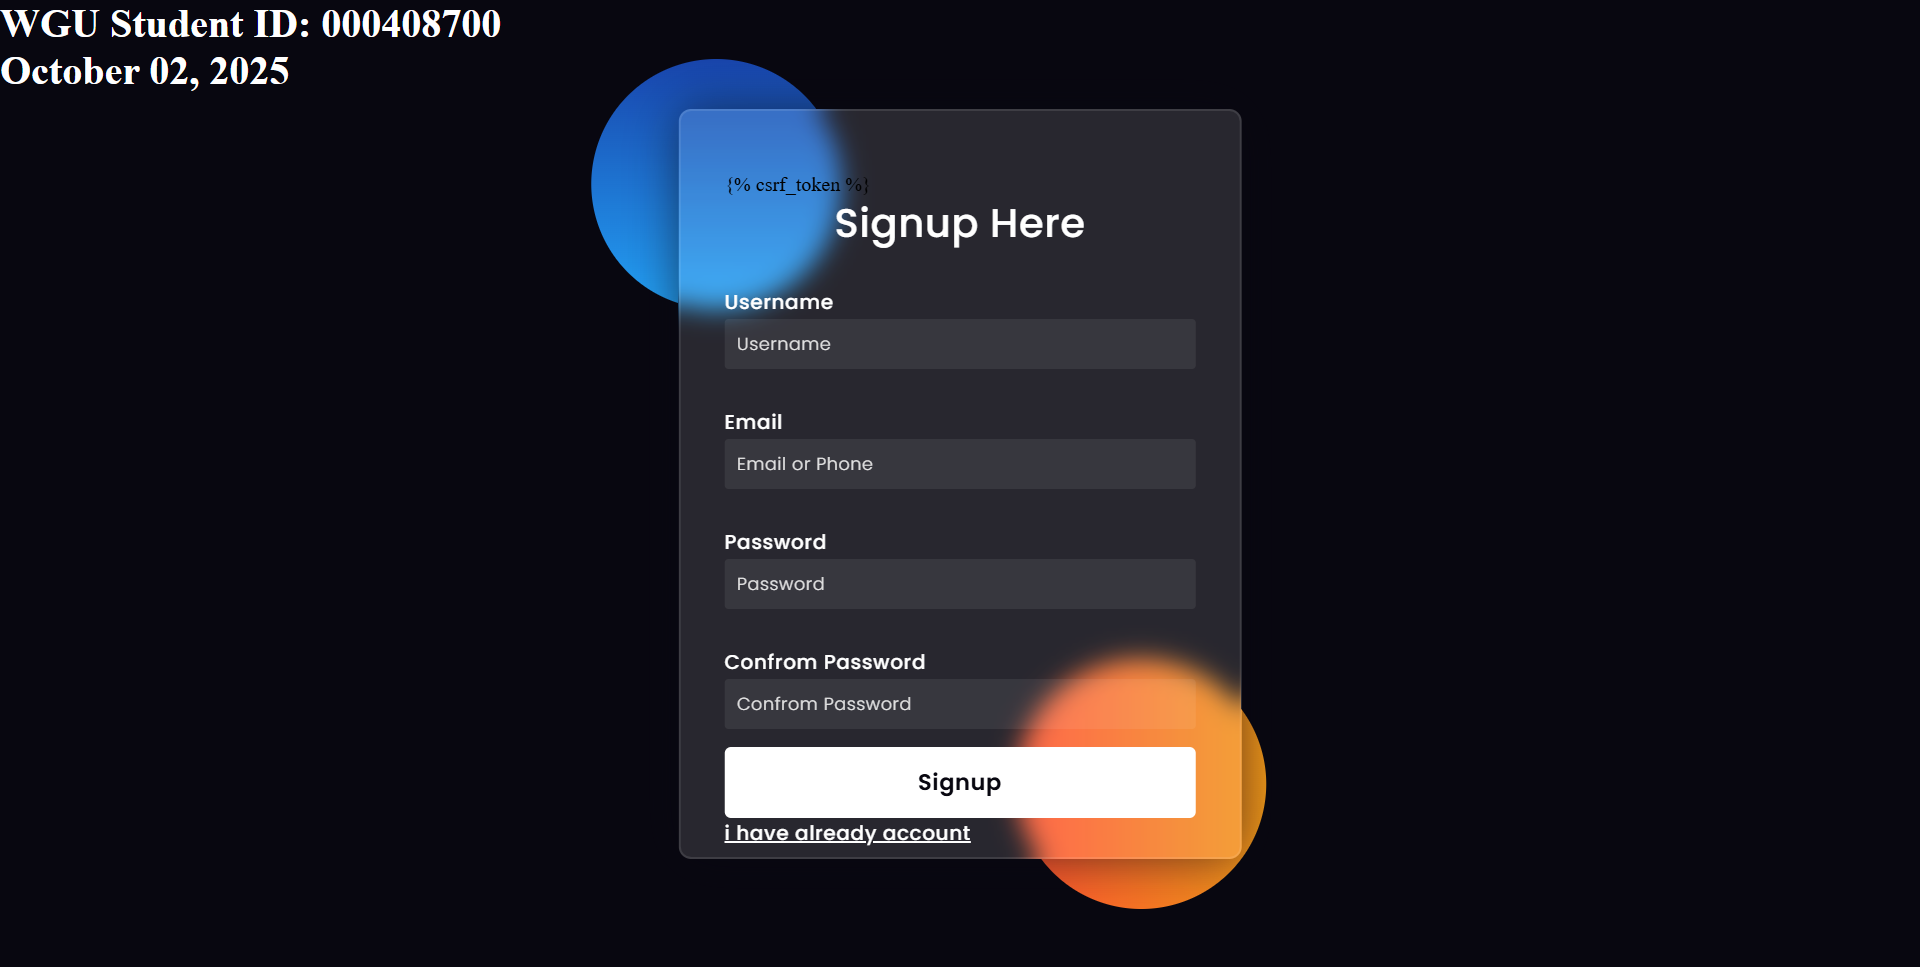
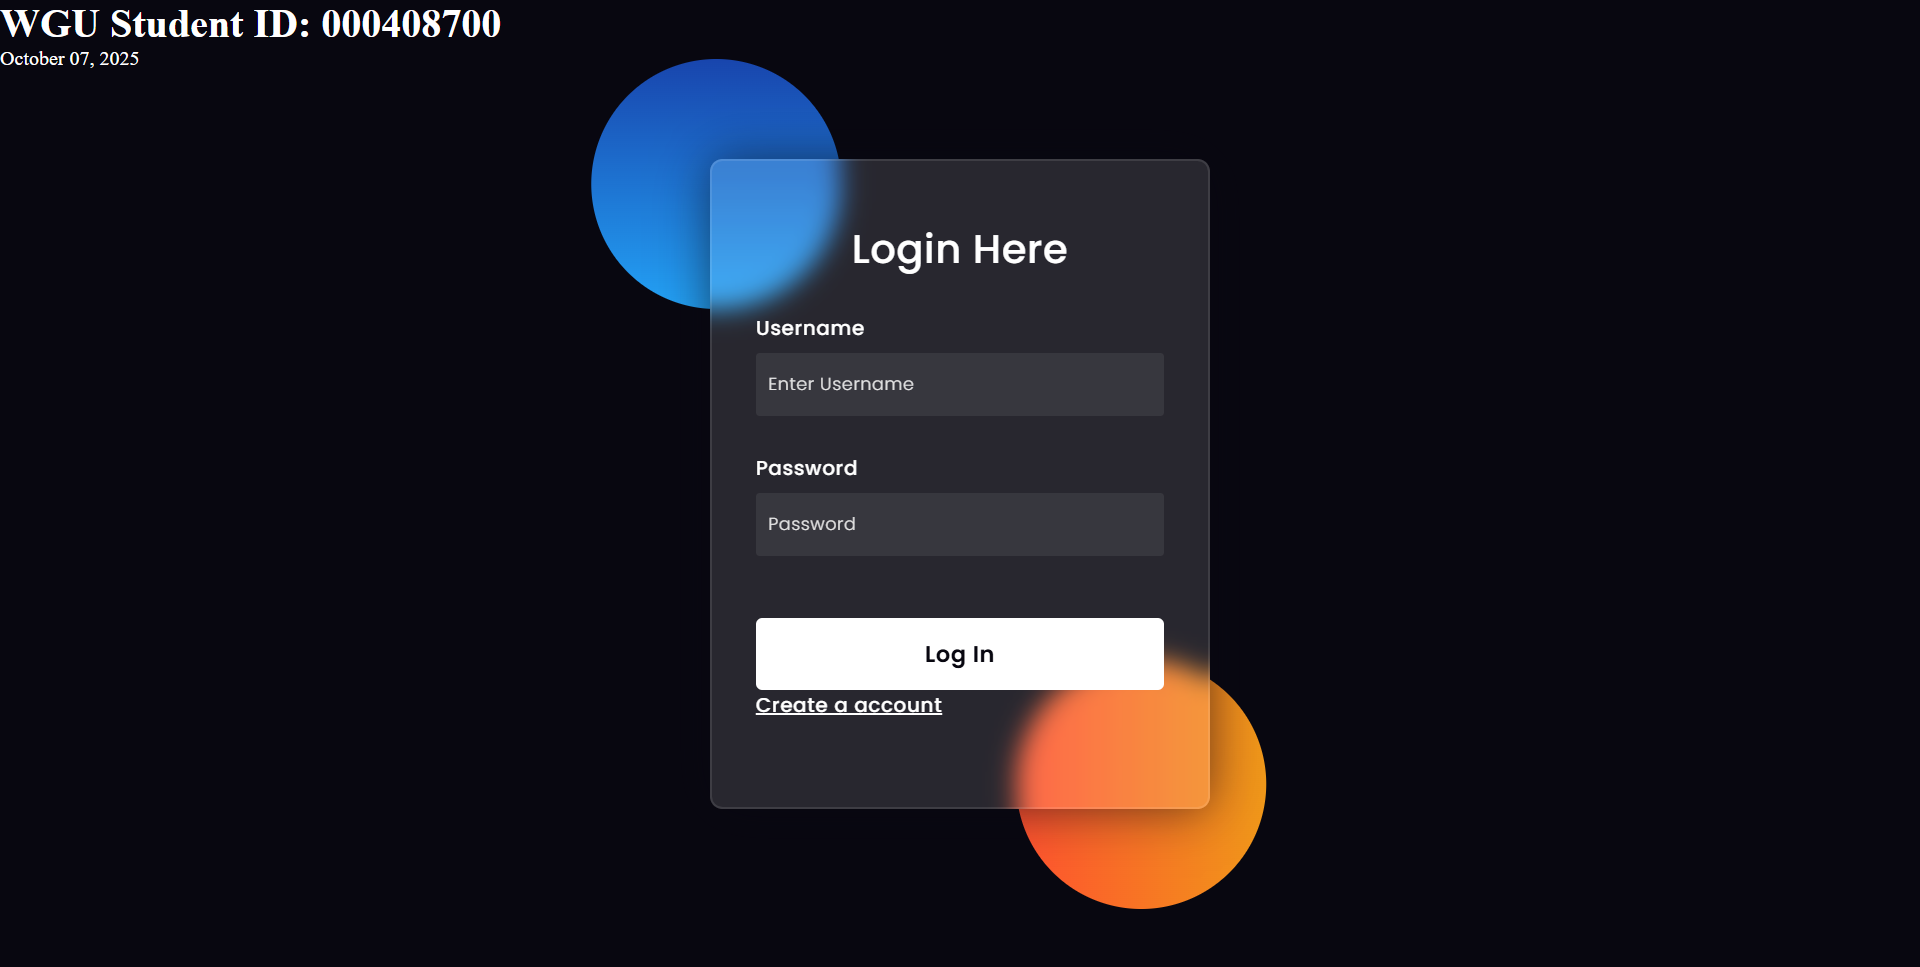
update results

Changed region(s): [[0.3438, 0.0931, 0.6562, 0.9307], [0.4375, 0.2172, 0.5625, 0.2792], [0.0, 0.031, 0.1562, 0.0931]]

diff --git a/test_signup.py b/test_signup.py
@@ -1,4 +1,4 @@
-from datetime import date
+from datetime import date, datetime
 from selenium import webdriver
 from selenium.webdriver.chrome.service import Service
 from webdriver_manager.chrome import ChromeDriverManager
@@ -21,10 +21,14 @@ def main():
             today_str
         )
 
+        # Create unique username with timestamp to avoid duplicate user errors
+        timestamp = datetime.now().strftime("%H%M%S")
+        unique_username = f"DemoUser{timestamp}"
+
         # Fill and submit sign-up form
         page.fill_form(
-            username="DemoUser",
-            email="DemoEmail@Demo.email",
+            username=unique_username,
+            email=f"demo{timestamp}@demo.email",
             password="StrongPassword"
         )
         page.submit()
@@ -38,6 +42,7 @@ def main():
         print(
             f"[{outcome}] Script completed - Student ID: {STUDENT_ID} - Date: {today_str}"
         )
+        print(f"Created user: {unique_username}")
 
     finally:
         input("Press any key to exit...")

diff --git a/test_login.py b/test_login.py
@@ -30,7 +30,7 @@ def main():
         today
         )
 
-        # Perform login
+        # Perform login with existing user (created in previous signup tests)
         page.login(username="DemoUser", password="StrongPassword")
         outcome_msg = None
 
@@ -45,7 +45,7 @@ def main():
             except Exception:
                 outcome_msg = "Unknown outcome"
 
-        
+
 
         # Save browser screenshot
         driver.save_screenshot("chrome_login_result.png")

diff --git a/app1/tests.py b/app1/tests.py
@@ -36,7 +36,7 @@ class DjangoViewTests(unittest.TestCase):
             'password2': 'password2'
         })
         self.assertEqual(response.status_code, 200)  # Renders the same page again
-        self.assertIn("Your password and confrom password are not Same!!", response.content.decode())
+        self.assertIn("Your password and confirm password are not Same!!", response.content.decode())
 
     def test_login_success(self):
         # Test successful login

diff --git a/pages/login_page.py b/pages/login_page.py
@@ -3,8 +3,8 @@ from selenium.webdriver.support.ui import WebDriverWait
 from selenium.webdriver.support import expected_conditions as EC
 
 class LoginPage:
-    # Points to local file
-    URL = r"file:///C:/Users/bgian/graduate_projects/D781_Task2/registration/app1/templates/login.html"
+    # Points to Django server
+    URL = "http://127.0.0.1:8000/login/"
 
     # Element locators - Mapped to login HTML
     USERNAME = (By.ID, "username")

diff --git a/pages/signup_page.py b/pages/signup_page.py
@@ -3,8 +3,8 @@ from selenium.webdriver.support.ui import WebDriverWait
 from selenium.webdriver.support import expected_conditions as EC
 
 class SignupPage:
-    # Points to local file
-    URL = r"file:///C:/Users/bgian/graduate_projects/D781_Task2/registration/app1/templates/signup.html"
+    # Points to Django server
+    URL = "http://127.0.0.1:8000/"
 
     # Element locators - Mapped to signup HTML
     USERNAME = (By.ID, "username")

diff --git a/app1/views.py b/app1/views.py
@@ -31,7 +31,7 @@ def SignupPage(request):
 def LoginPage(request):
     if request.method=='POST':
         username=request.POST.get('username')
-        pass1=request.POST.get('pass')
+        pass1=request.POST.get('password')
         user=authenticate(request,username=username,password=pass1)
         if user is not None:
             login(request,user)
